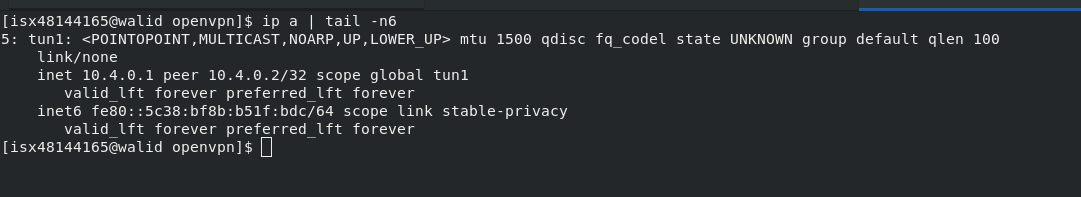
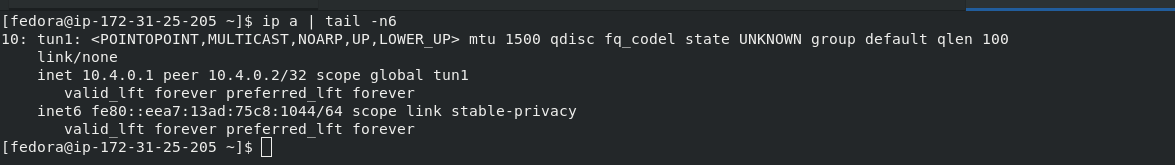
exemple 3

Changed region(s): [[0.0, 0.0606, 0.9463, 0.9394], [0.7937, 0.0303, 1.0, 0.0909]]

diff --git a/README.md b/README.md
@@ -72,15 +72,16 @@ authorityKeyIdentifier = keyid,issuer:always
 ### Al server
 - Creem túnel:
 ```
-[isx48144165@walid openvpn]$ sudo openvpn --remote 192.168.1.15 --dev tun1 --ifconfig 10.4.0.1 10.4.0.2 --tls-server --dh dh2048.pem --ca ca-crt.pem --cert vpnserver-crt.pem --key vpnserver-key.pem --reneg-sec 60
+[fedora@ip-172-31-25-205 openvpn]$ sudo openvpn --remote 37.14.86.93 --dev tun1 --ifconfig 10.4.0.1 10.4.0.2 --tls-server --dh dh2048.pem --ca ca-crt.pem --cert vpnserver-crt.pem --key vpnserver-key.pem --reneg-sec 60
 ```
 ![foto1](./aux/1.png)
 
 ### Al client
 - Creem túnel:
 ```
-[isx48144165@walid openvpn]$ openvpn --remote 192.168.1.17 --dev tun1 --ifconfig 10.4.0.2 10.4.0.1 --tls-client --ca ca-crt.pem --cert vpnclient1-crt.pem --key vpnclient1-key.pem --reneg-sec 60
+[isx48144165@walid openvpn]$ sudo openvpn --remote 35.177.24.194 --dev tun1 --ifconfig 10.4.0.2 10.4.0.1 --tls-client --ca ca-crt.pem --cert vpnclient1-crt.pem --key vpnclient1-key.pem --reneg-sec 60
 ```
+![foto2](./aux/2.png)
 
 ### Comprobacions
 1. Al server:
@@ -93,8 +94,8 @@ nc -kl 50000
 telnet 10.4.0.1 50000
 ```
 
-- **Simulació: només mostra el resultat que s'hauria d'obtenir**
-![foto2](./aux/2.png)
+- **Com podem veure, els dos hosts utilitzen el túnel per fer un chat privat**
+![foto3](./aux/3.png)
 
 ## Exemple 4: Túnel Network to Network
 ### En aquesta pràctica s'ha de fer el que s'ha fet anteriorment (exemple 3), afegint-hi dues ordes:
